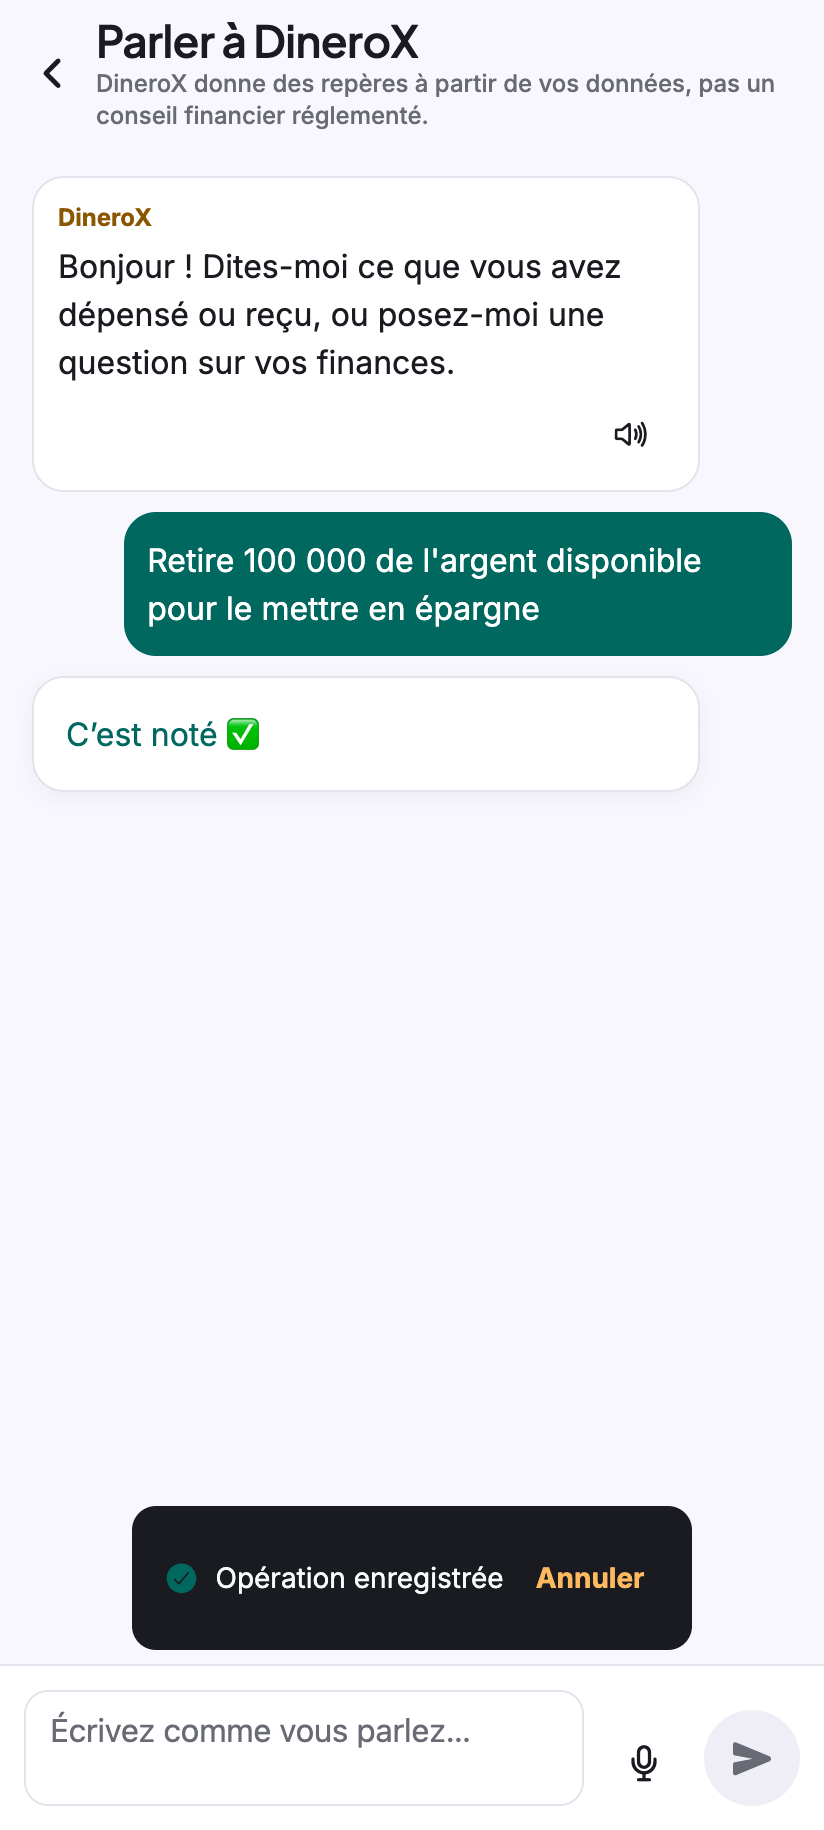
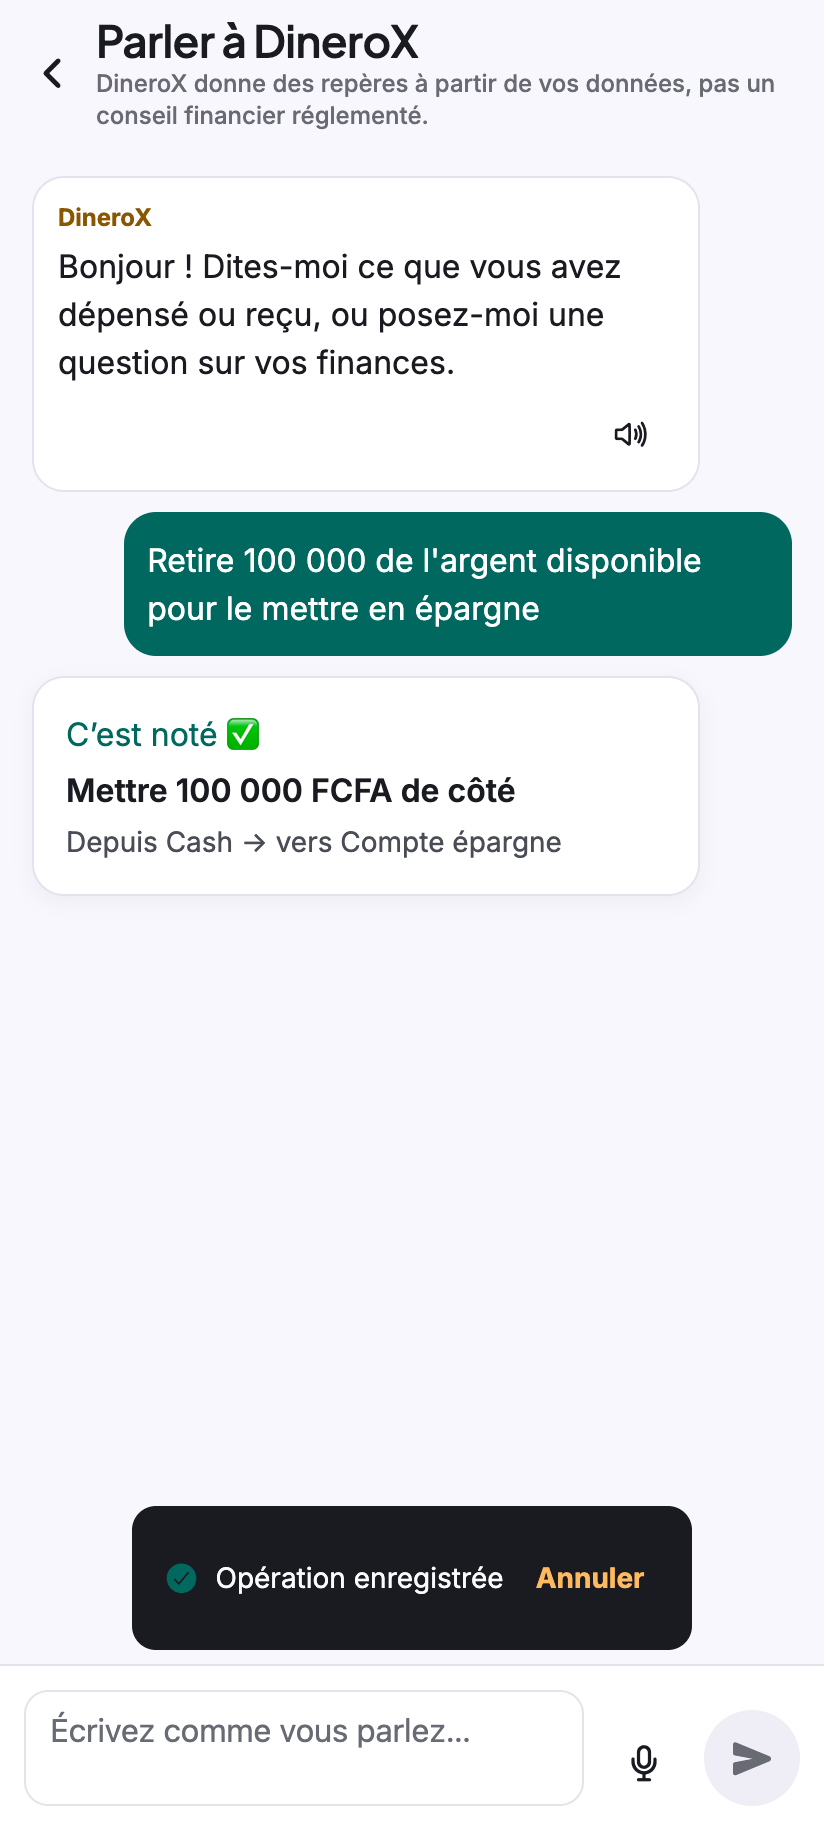
IA : résumé après « Valider », « Annuler » sans orphelin, aiUsage fermé aux clients
- Après « Valider » : sous « C'est noté ✅ », titre de la carte et « Depuis … → vers … »
  (textes existants)
- tests/ia-annuler.test.ts : VRAI useActions sur le VRAI moteur de synchronisation ; pour chaque
  action du §2.2, « Valider » puis « Annuler » laisse les données identiques. Défaut corrigé :
  une nouvelle dette laissait son opération d'emprunt / de prêt (debtId) — « Annuler » retire
  désormais les deux (ActionPort.currentTransactions)
- Règles : aiUsage/{jour} explicitement fermé (lecture et écriture, même administrateur),
  test de règles ; Functions inchangées (SDK admin)
- e2e/ia.js : résumé vérifié ; captures-ia : ONLY ; 09 recapturée

Changed region(s): [[0.0607, 0.4049, 0.6675, 0.4672]]

diff --git a/dinerox/tests/ia-annuler.test.ts b/dinerox/tests/ia-annuler.test.ts
@@ -1,0 +1,102 @@
+/**
+ * IA — « Valider » puis « Annuler » (toast, 5 s) laisse les données IDENTIQUES à l'état de départ,
+ * pour CHAQUE action de docs/ia-comprend-tout.md §2.2 : aucun document orphelin (opération, entrée
+ * de tontine, versement d'objectif, paiement ou création de dette, récurrence, enveloppe).
+ *
+ * Banc d'essai : le VRAI `useActions` (store/actions.ts) sur le VRAI moteur de synchronisation
+ * (services/sync/engine.ts, en mémoire). React est réduit à `useCallback` / `useMemo` (identité) ;
+ * la session (`useApp`) est simulée : administrateur, formule Famille, espace local.
+ */
+import { beforeAll, describe, expect, it, vi } from 'vitest';
+import { iaData, TODAY } from './fixtures/ia-data';
+import type { ActionIntent } from '../src/core/ai/intent';
+import type { CollectionName, SpaceData, SyncedDoc } from '../src/core/types';
+
+const mem = new Map<string, string>();
+vi.mock('@react-native-async-storage/async-storage', () => ({
+  default: {
+    getItem: async (k: string) => mem.get(k) ?? null,
+    setItem: async (k: string, v: string) => void mem.set(k, v),
+    getAllKeys: async () => [...mem.keys()],
+    multiRemove: async (ks: string[]) => ks.forEach((k) => mem.delete(k)),
+  },
+}));
+vi.mock('../src/services/sync/remote', () => ({}));
+vi.mock('../src/services/firebase', () => ({}));
+vi.mock('react', async (orig) => ({ ...(await orig<typeof import('react')>()), useCallback: (f: unknown) => f, useMemo: (f: () => unknown) => f() }));
+vi.mock('../src/services/categoryCatalog', async () => {
+  const { EMBEDDED_CATALOG } = await import('../src/core/categoryCatalog');
+  return { currentCatalog: () => EMBEDDED_CATALOG };
+});
+vi.mock('../src/services/analytics', () => ({ analytics: { track: () => undefined } }));
+vi.mock('../src/features/coach/bus', () => ({ notifyCoachWrite: () => undefined }));
+vi.mock('../src/i18n', () => ({ useI18n: () => ({ t: (k: string) => k, lang: 'fr' }) }));
+const session: { engine: unknown } = { engine: null };
+vi.mock('../src/store/app', () => ({
+  useApp: () => ({ engine: session.engine, activeSpace: { id: 'local', currency: 'XOF', kind: 'personal' }, role: 'admin', user: { uid: 'u1' }, plan: 'family' }),
+}));
+
+const { SyncEngine } = await import('../src/services/sync/engine');
+const { useActions } = await import('../src/store/actions');
+const { runAction } = await import('../src/core/ai/actionCard');
+const { intentContext, understand, complete } = await import('../src/core/ai/intent');
+const { COLLECTIONS } = await import('../src/core/types');
+
+let engine: InstanceType<typeof SyncEngine>;
+
+/** Documents VISIBLES de l'espace, sans horodatage (seul le contenu compte). */
+function visible(d: SpaceData) {
+  const strip = ({ updatedAt: _u, createdAt: _c, ...rest }: SyncedDoc & Record<string, unknown>) => rest;
+  return Object.fromEntries(COLLECTIONS.map((c: CollectionName) => [c, (d[c] as SyncedDoc[]).filter((x) => !x.deleted).map((x) => strip(x as never)).sort((a, b) => String(a.id).localeCompare(String(b.id)))]));
+}
+
+beforeAll(async () => {
+  engine = new SyncEngine('u1', null);
+  await engine.open('local', 'admin');
+  const data = iaData();
+  engine.writeMany('local', COLLECTIONS.flatMap((c: CollectionName) => (data[c] as SyncedDoc[]).map((doc) => ({ col: c, doc }))));
+  session.engine = engine;
+});
+
+/** L'intention d'une phrase, choix « Lequel ? » complétés par le premier compte proposé. */
+function intentOf(text: string): ActionIntent {
+  const ctx = intentContext(engine.getData('local'), { today: TODAY, currency: 'XOF' });
+  let i = understand(text, ctx);
+  for (let n = 0; n < 3 && i.kind === 'ask'; n++) {
+    const opt = i.options[0];
+    const inner = i.intent as ActionIntent;
+    i = complete(i.field === 'to' ? { ...inner, to: opt } : i.field === 'from' || (i.field === 'account' && !(inner.action === 'debt_create' && inner.direction === 'i_owe')) ? { ...inner, from: opt } : i.field === 'account' ? { ...inner, to: opt } : { ...inner, ref: opt }, ctx);
+  }
+  if (i.kind !== 'action') throw new Error(`${text} → ${JSON.stringify(i)}`);
+  return i;
+}
+
+const PHRASES: [string, string][] = [
+  ['save', 'Retire 100 000 de l’argent disponible pour le mettre en épargne'],
+  ['withdraw_savings', 'Sors 30 000 de mon épargne vers Wave'],
+  ['transfer', 'Envoie 10 000 de Wave vers Orange Money'],
+  ['goal_contribute', 'Ajoute 25 000 à ma moto'],
+  ['goal_create', 'Je veux économiser pour un frigo à 300 000'],
+  ['debt_repayment', 'J’ai remboursé 50 000 à Koffi avec Orange Money'],
+  ['debt_create (je dois)', 'Koffi m’a prêté 100 000'],
+  ['debt_create (on me doit)', 'J’ai prêté 20 000 à Awa par Wave'],
+  ['recurring_confirm', 'J’ai payé le loyer'],
+  ['reserve_use', 'Prends 40 000 sur la réserve famille pour les funérailles'],
+  ['envelope_budget', 'Mets le transport à 50 000 ce mois-ci'],
+  ['recurring_create', 'Chaque mois j’envoie 50 000 à Maman'],
+];
+
+describe('« Valider » puis « Annuler » : données identiques à l’état de départ', () => {
+  for (const [name, text] of PHRASES) {
+    it(`${name} — « ${text} »`, () => {
+      const before = visible(engine.getData('local'));
+      const intent = intentOf(text);
+      const actions = { ...useActions(), currentTransactions: () => engine.getData('local').transactions } as never;
+      const r = runAction(intent, actions, { data: engine.getData('local'), currency: 'XOF', today: TODAY }, []);
+      const during = visible(engine.getData('local'));
+      expect(during, 'l’action a bien écrit quelque chose').not.toEqual(before);
+      r.undo();
+      expect(visible(engine.getData('local'))).toEqual(before);
+    });
+  }
+});

diff --git a/dinerox/src/features/ai/IntentResult.tsx b/dinerox/src/features/ai/IntentResult.tsx
@@ -208,7 +208,7 @@ export function openForm(i: Intent) {
 function ActionCardView({ intent, engine, onDone }: { intent: ActionIntent; engine: Engine; onDone?: () => void }) {
   const { t } = useI18n();
   const { colors, radius } = useTheme();
-  const { role } = useApp();
+  const { role, engine: sync, activeSpace } = useApp();
   const toast = useToast();
   const actions = useActions();
   const { guard } = useMoneyGuard();
@@ -218,6 +218,8 @@ function ActionCardView({ intent, engine, onDone }: { intent: ActionIntent; engi
   const [from, setFrom] = useState<EntityRef | null>(intent.from ?? null);
   const [to, setTo] = useState<EntityRef | null>(intent.to ?? null);
   const [status, setStatus] = useState<'pending' | 'done' | 'cancelled'>('pending');
+  /** Ce qui a été enregistré (titre de la carte et « Depuis … → vers … »), montré sous « C'est noté ✅ ». */
+  const [summary, setSummary] = useState<string[]>([]);
   const edited: ActionIntent = useMemo(() => ({ ...intent, amount, date, from, to }), [intent, amount, date, from, to]);
   const cctx = { data, currency: currency as CurrencyCode, today: now };
   const card = buildActionCard(edited, cctx);
@@ -241,7 +243,10 @@ function ActionCardView({ intent, engine, onDone }: { intent: ActionIntent; engi
     guard(
       (choices) => {
         try {
-          const r = runAction(edited, actions as unknown as ActionPort, cctx, choices);
+          const port = { ...(actions as unknown as ActionPort), currentTransactions: () => (sync && activeSpace ? sync.getData(activeSpace.id).transactions : []) };
+          const r = runAction(edited, port, cctx, choices);
+          const route = card.lines.find((l) => l.key === 'ia.card.fromTo' || l.key === 'ia.card.from' || l.key === 'ia.card.to');
+          setSummary([engine.text(card.titleKey, card.titleParams), ...(route ? [engine.text(route.key, route.params)] : [])]);
           setStatus('done');
           toast.show(t('tx.saved'), 'success', { duration: UNDO_MS, actions: [{ label: t('entry.toast.undo'), onPress: () => (r.undo(), toast.show(t('entry.undone'), 'info')) }] });
           onDone?.();
@@ -259,8 +264,15 @@ function ActionCardView({ intent, engine, onDone }: { intent: ActionIntent; engi
 
   if (status !== 'pending') {
     return (
-      <Card>
+      <Card style={{ gap: 4 }}>
         <Text tone={status === 'done' ? 'success' : 'subtle'}>{status === 'done' ? t('ai.recorded') : t('ai.cancelled')}</Text>
+        {status === 'done'
+          ? summary.map((line, i) => (
+              <Text key={i} variant={i === 0 ? 'bodyStrong' : 'small'} tone={i === 0 ? 'default' : 'muted'}>
+                {line}
+              </Text>
+            ))
+          : null}
       </Card>
     );
   }

diff --git a/dinerox/e2e/captures-ia.js b/dinerox/e2e/captures-ia.js
@@ -2,6 +2,7 @@
  * Captures « L'IA qui comprend toute l'application » pour le fondateur (docs/ia-comprend-tout.md) :
  * web, thème clair, mode démonstration, 412×915. Sortie : docs/captures-ia/<nn-nom>.png.
  *   node e2e/captures-ia.js
+ *   ONLY=09 node e2e/captures-ia.js   (seules ces captures sont réécrites)
  * La démonstration n'a pas de dette envers « Koffi » : elle est ajoutée par le formulaire
  * Dettes (100 000) avant la question, comme le ferait la personne.
  * Pas dans run-all.sh : ce n'est pas un test, c'est une galerie.
@@ -12,7 +13,10 @@ const { BASE, launch, phraseField } = require('./env.js');
 
 const OUT = path.join(__dirname, '..', 'docs', 'captures-ia');
 fs.mkdirSync(OUT, { recursive: true });
-for (const f of fs.readdirSync(OUT)) if (f.endsWith('.png')) fs.unlinkSync(path.join(OUT, f));
+// ONLY=09 : seules ces captures sont réécrites (le parcours complet tourne, les autres images restent).
+const ONLY = process.env.ONLY ? new Set(process.env.ONLY.split(',').map((x) => x.trim())) : null;
+const wanted = (name) => !ONLY || ONLY.has(name.slice(0, 2));
+for (const f of fs.readdirSync(OUT)) if (f.endsWith('.png') && wanted(f)) fs.unlinkSync(path.join(OUT, f));
 const log = [];
 
 (async () => {
@@ -22,7 +26,7 @@ const log = [];
   p.on('dialog', (d) => d.accept());
   const go = async (route, w = 3000) => { await p.goto(BASE + route, { waitUntil: 'load' }); await p.waitForTimeout(w); };
   const btn = (name) => p.getByRole('button', { name, exact: true });
-  const shot = async (name) => { await p.screenshot({ path: path.join(OUT, `${name}.png`) }); log.push(name); };
+  const shot = async (name) => { if (!wanted(name)) return; await p.screenshot({ path: path.join(OUT, `${name}.png`) }); log.push(name); };
   const closeCelebration = async () => { for (const l of ['Continuer']) { const c = btn(l).filter({ visible: true }); if (await c.count()) { await c.first().click().catch(() => {}); await p.waitForTimeout(400); } } };
   /** Une conversation neuve, une phrase, la capture. */
   const ask = async (name, phrase, after) => {

diff --git a/dinerox/src/core/ai/actionCard.ts b/dinerox/src/core/ai/actionCard.ts
@@ -128,6 +128,8 @@ export interface ActionPort {
   saveRecurring: (draft: never) => { id: string };
   remove: (col: CollectionName, id: string) => void;
   save: (col: CollectionName, draft: never) => unknown;
+  /** Opérations de l'espace au moment de « Annuler » (opération d'ouverture d'une dette). */
+  currentTransactions: () => Pick<SpaceData['transactions'][number], 'id' | 'debtId' | 'deleted'>[];
 }
 
 /** Prochaine date au jour `day` du mois (aujourd'hui compris). */
@@ -166,7 +168,14 @@ export function runAction(i: ActionIntent, port: ActionPort, ctx: CardCtx, choic
     case 'debt_create': {
       const accountId = i.direction === 'i_owe' ? i.to?.id : i.from?.id;
       const draft = { direction: i.direction ?? 'i_owe', kind: 'personal', counterparty: i.label ?? '', principal: a, currency: ctx.currency, startDate: i.date, status: 'active' };
-      return removeUndo('debts', port.saveDebt(draft as never, { accountId: accountId ?? null, date: i.date, choices } as never).id);
+      const debtId = port.saveDebt(draft as never, { accountId: accountId ?? null, date: i.date, choices } as never).id;
+      // L'emprunt reçu (ou le prêt accordé) est écrit AVEC la dette : « Annuler » retire les deux.
+      return {
+        undo: () => {
+          for (const t of port.currentTransactions()) if (!t.deleted && t.debtId === debtId) port.remove('transactions', t.id);
+          port.remove('debts', debtId);
+        },
+      };
     }
     case 'recurring_confirm': {
       const rule = ctx.data.recurring.find((r) => r.id === i.ref?.id);

diff --git a/dinerox/tests/rules/firestore.rules.test.ts b/dinerox/tests/rules/firestore.rules.test.ts
@@ -260,6 +260,19 @@ describe('autres collections', () => {
     await assertSucceeds(setDoc(doc(db('boss', { admin: true }), 'config/goalCategories/items/health'), { icon: '🩺' }));
     await assertSucceeds(getDoc(doc(db('u1'), 'config/goalCategories/items/health')));
   });
+  it('IA : compteurs de jetons du jour (aiUsage/{jour}) — ni lus ni écrits par un client, même administrateur', async () => {
+    await env.withSecurityRulesDisabled(async (ctx) => {
+      await setDoc(doc(ctx.firestore() as unknown as Firestore, 'aiUsage/2026-10-19'), { day: '2026-10-19', calls: 3, tokensIn: 1200, tokensOut: 90 });
+    });
+    for (const who of [db('u1'), db('boss', { admin: true }), db(null)]) {
+      await assertFails(getDoc(doc(who, 'aiUsage/2026-10-19')));
+      await assertFails(getDocs(collection(who, 'aiUsage')));
+      await assertFails(setDoc(doc(who, 'aiUsage/2026-10-19'), { calls: 0 }));
+      await assertFails(setDoc(doc(who, 'aiUsage/2026-10-20'), { day: '2026-10-20', calls: 1 }));
+      await assertFails(updateDoc(doc(who, 'aiUsage/2026-10-19'), { tokensIn: 0 }));
+      await assertFails(deleteDoc(doc(who, 'aiUsage/2026-10-19')));
+    }
+  });
   it('abonnements et quotas : jamais écrits par le client', async () => {
     await assertFails(setDoc(doc(db('u1'), 'subscriptions/u1'), { plan: 'family' }));
     await assertFails(setDoc(doc(db('u1'), 'usage/u1'), { ai: 0 }));

diff --git a/dinerox/e2e/ia.js b/dinerox/e2e/ia.js
@@ -58,7 +58,9 @@ let b;
   ok((await savings()) === before, 'rien n’est écrit avant « Valider »');
   t = await card();
   await btn('Valider').last().click(); await p.waitForTimeout(500);
-  ok((await text()).includes('Opération enregistrée'), 'après « Valider » : toast « Opération enregistrée »');
+  t = await text();
+  ok(t.includes('Opération enregistrée'), 'après « Valider » : toast « Opération enregistrée »');
+  ok(/C’est noté ✅\s*Mettre 100 000 FCFA de côté\s*Depuis .+ → vers .+/.test(t), 'après « Valider » : résumé sous « C’est noté » (titre, depuis → vers)');
   await btn('Annuler').last().click(); await p.waitForTimeout(1200);
   ok((await savings()) === before, 'toast « Annuler » : la mise de côté est retirée');
   await card();

diff --git a/dinerox/tests/fixtures/ia-data.ts b/dinerox/tests/fixtures/ia-data.ts
@@ -25,7 +25,7 @@ export function iaData(): SpaceData {
       account({ id: 'om', name: 'Orange Money', type: 'mobile_money', provider: 'orange_money', openingBalance: 80_000, order: 1 }),
       account({ id: 'wave', name: 'Wave', type: 'mobile_money', provider: 'wave', openingBalance: 40_000, order: 2 }),
       account({ id: 'bank', name: 'Banque', type: 'bank', provider: 'bank', openingBalance: 300_000, order: 3 }),
-      account({ id: 'sav', name: 'Mon épargne', type: 'savings', isSavings: true, openingBalance: 200_000, order: 4 }),
+      account({ id: 'sav', name: 'Mon épargne', type: 'savings', isSavings: true, openingBalance: 400_000, order: 4 }),
     ],
     envelopes: [
       envelope({ id: 'env_home', name: 'Maison', monthlyBudget: 120_000, categoryIds: ['cat_housing'] }),

diff --git a/dinerox/tests/ia-actions.test.ts b/dinerox/tests/ia-actions.test.ts
@@ -34,6 +34,7 @@ function port() {
     saveRecurring: vi.fn(() => written),
     remove: vi.fn(),
     save: vi.fn(),
+    currentTransactions: vi.fn(() => []),
   };
   return p as typeof p & ActionPort;
 }
